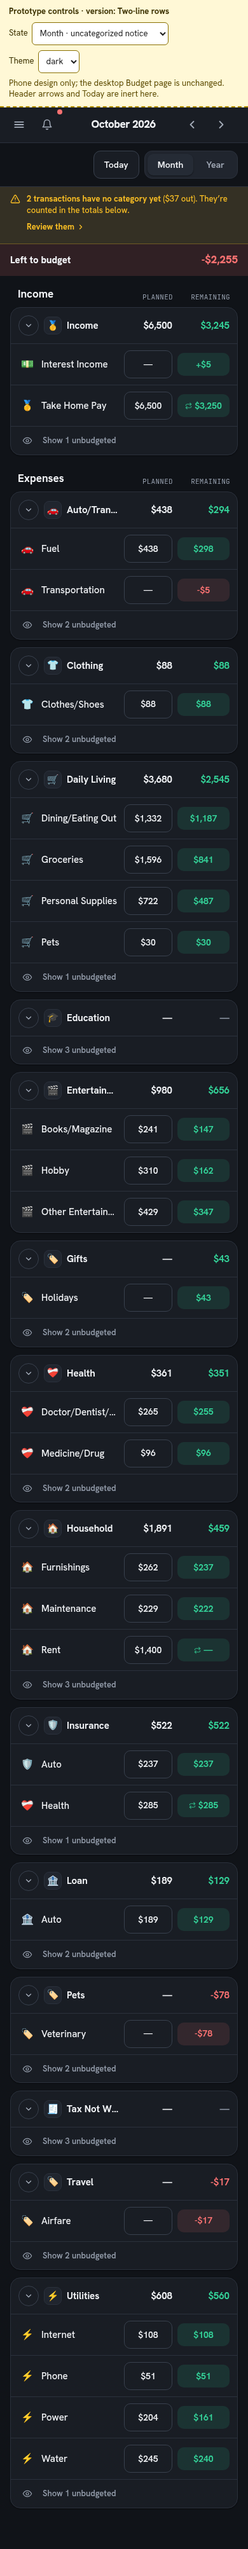
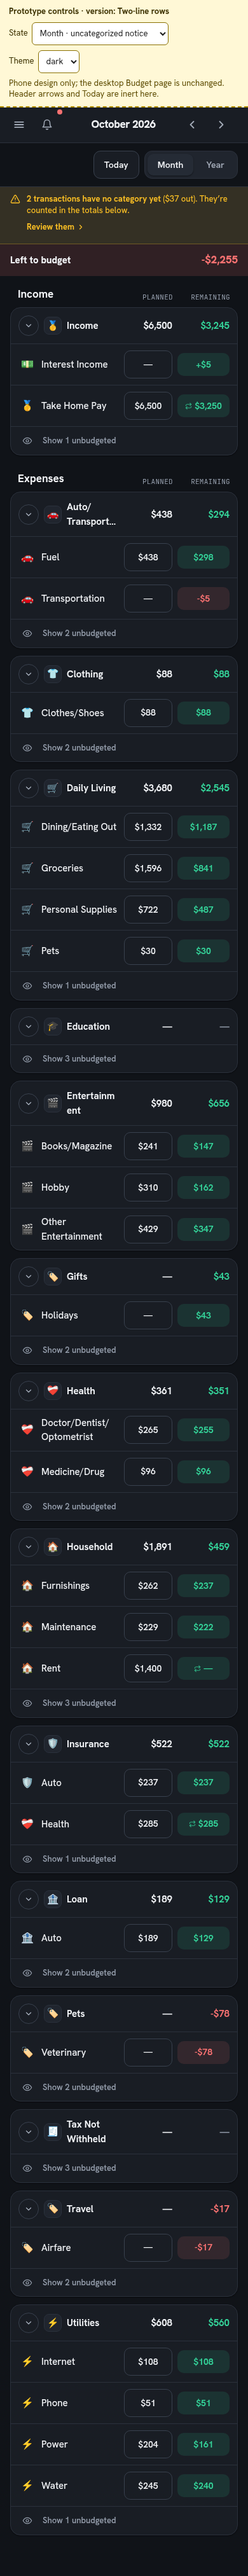
docs(design): wrap Budget names as the base does; record review fix (#309)

diff --git a/design/309-budget-year-cards/index.html b/design/309-budget-year-cards/index.html
@@ -2,20 +2,20 @@
 <html lang="en"><head><meta http-equiv="Content-Security-Policy" content="default-src 'none'; script-src 'unsafe-inline'; style-src 'unsafe-inline'; img-src data:; font-src data:; form-action 'none'; base-uri 'none'">
     <meta charset="UTF-8">
     <meta name="viewport" content="width=device-width, initial-scale=1.0, viewport-fit=cover">
-    
-    
-    
-    
-    
-    
+
+
+
+
+
+
     <meta name="theme-color" content="#ffffff" media="(prefers-color-scheme: light)">
     <meta name="theme-color" content="#191d24" media="(prefers-color-scheme: dark)">
     <title>Ledger — Personal Finance</title>
-    
-    
-    
-    
-    
+
+
+
+
+
   <style>/* cyrillic-ext */
 @font-face {
   font-family: 'Hanken Grotesk';
@@ -375,7 +375,7 @@
 </style></head>
   <body>
     <div id="root"><div class="flex app-shell-height bg-bg font-sans"><div class="shrink-0 desktop-only" style="width: 236px; transition: width 200ms;"></div><aside class="fixed left-0 top-0 h-full z-40 bg-surface border-r border-line flex flex-col overflow-hidden desktop-only" style="width: 236px; transition: width 200ms;"><div class="relative shrink-0" style="padding: 20px 0px 8px 18px;"><span class="relative inline-block"><svg width="28" height="28" viewBox="0 0 100 100" class="shrink-0 block" role="img" aria-label="Ledger"><defs><linearGradient id="ledger-mark-_r_0_" x1="0" y1="0" x2="1" y2="1"><stop offset="0" stop-color="#5b93ff"></stop><stop offset="1" stop-color="#2c72e6"></stop></linearGradient></defs><rect x="2" y="2" width="96" height="96" rx="26" fill="url(#ledger-mark-_r_0_)"></rect><g fill="#fff"><rect x="29" y="26" width="12" height="48" rx="6"></rect><rect x="29" y="62" width="42" height="12" rx="6"></rect><rect x="49" y="26" width="30" height="10" rx="5" opacity=".95"></rect><rect x="49" y="44" width="21" height="10" rx="5" opacity=".72"></rect></g></svg><span class="absolute -top-1 -right-1 w-2 h-2 rounded-full bg-negative" style="opacity: 0; pointer-events: none; transition: opacity 150ms;"></span></span><div class="absolute flex items-center gap-1" style="left: 84px; top: 18px; opacity: 1; pointer-events: auto; transition: opacity 150ms;"><button class="w-8 h-8 rounded-lg flex items-center justify-center bg-transparent border-none text-content-3 hover:text-content hover:bg-surface-2 cursor-pointer transition-colors" title="Dark mode"><svg width="18" height="18" viewBox="0 0 24 24" fill="none" stroke="currentColor" stroke-width="2" stroke-linecap="round" stroke-linejoin="round"><path d="M21 12.79A9 9 0 1 1 11.21 3 7 7 0 0 0 21 12.79z"></path></svg></button><button class="w-8 h-8 rounded-lg flex items-center justify-center bg-transparent border-none text-content-3 hover:text-content hover:bg-surface-2 cursor-pointer transition-colors" title="Settings"><svg width="18" height="18" viewBox="0 0 24 24" fill="none" stroke="currentColor" stroke-width="2" stroke-linecap="round" stroke-linejoin="round"><circle cx="12" cy="12" r="3"></circle><path d="M19.4 15a1.65 1.65 0 0 0 .33 1.82l.06.06a2 2 0 0 1 0 2.83 2 2 0 0 1-2.83 0l-.06-.06a1.65 1.65 0 0 0-1.82-.33 1.65 1.65 0 0 0-1 1.51V21a2 2 0 0 1-2 2 2 2 0 0 1-2-2v-.09A1.65 1.65 0 0 0 9 19.4a1.65 1.65 0 0 0-1.82.33l-.06.06a2 2 0 0 1-2.83 0 2 2 0 0 1 0-2.83l.06-.06A1.65 1.65 0 0 0 4.68 15a1.65 1.65 0 0 0-1.51-1H3a2 2 0 0 1-2-2 2 2 0 0 1 2-2h.09A1.65 1.65 0 0 0 4.6 9a1.65 1.65 0 0 0-.33-1.82l-.06-.06a2 2 0 0 1 0-2.83 2 2 0 0 1 2.83 0l.06.06A1.65 1.65 0 0 0 9 4.68a1.65 1.65 0 0 0 1-1.51V3a2 2 0 0 1 2-2 2 2 0 0 1 2 2v.09a1.65 1.65 0 0 0 1 1.51 1.65 1.65 0 0 0 1.82-.33l.06-.06a2 2 0 0 1 2.83 0 2 2 0 0 1 0 2.83l-.06.06A1.65 1.65 0 0 0 19.4 9a1.65 1.65 0 0 0 1.51 1H21a2 2 0 0 1 2 2 2 2 0 0 1-2 2h-.09a1.65 1.65 0 0 0-1.51 1z"></path></svg></button><button class="relative w-8 h-8 rounded-lg flex items-center justify-center bg-transparent border-none text-content-3 hover:text-content hover:bg-surface-2 cursor-pointer transition-colors" title="Notifications" aria-haspopup="dialog" aria-expanded="false"><svg width="18" height="18" viewBox="0 0 24 24" fill="none" stroke="currentColor" stroke-width="2" stroke-linecap="round" stroke-linejoin="round"><path d="M18 8A6 6 0 0 0 6 8c0 7-3 9-3 9h18s-3-2-3-9"></path><path d="M13.73 21a2 2 0 0 1-3.46 0"></path></svg><span class="absolute -top-0.5 -right-0.5 w-2 h-2 rounded-full bg-negative"></span></button><button class="w-8 h-8 rounded-lg flex items-center justify-center bg-transparent border-none text-content-3 hover:text-content hover:bg-surface-2 cursor-pointer transition-colors" title="Collapse sidebar"><svg width="16" height="16" viewBox="0 0 24 24" fill="none" stroke="currentColor" stroke-width="2" stroke-linecap="round" stroke-linejoin="round"><polyline points="15 18 9 12 15 6"></polyline><line x1="4" y1="4" x2="4" y2="20"></line></svg></button></div></div><nav class="flex-1 min-h-0 flex flex-col gap-0.5" style="padding: 12px 10px;"><a class="flex items-center gap-2.5 rounded-[11px] text-sm no-underline transition-colors text-content-2 font-medium hover:bg-surface-2 hover:text-content" data-discover="true" style="padding: 0px 13px; height: 40px;"><span class="shrink-0 flex relative"><svg width="18" height="18" viewBox="0 0 24 24" fill="none" stroke="currentColor" stroke-width="2" stroke-linecap="round" stroke-linejoin="round"><rect x="3" y="3" width="7" height="7"></rect><rect x="14" y="3" width="7" height="7"></rect><rect x="3" y="14" width="7" height="7"></rect><rect x="14" y="14" width="7" height="7"></rect></svg></span><span class="flex-1 flex items-center gap-2.5 whitespace-nowrap" style="opacity: 1; transition: opacity 150ms;">Dashboard</span></a><a class="flex items-center gap-2.5 rounded-[11px] text-sm no-underline transition-colors text-content-2 font-medium hover:bg-surface-2 hover:text-content" data-discover="true" style="padding: 0px 13px; height: 40px;"><span class="shrink-0 flex relative"><svg width="18" height="18" viewBox="0 0 24 24" fill="none" stroke="currentColor" stroke-width="2" stroke-linecap="round" stroke-linejoin="round"><path d="M21 12V7H5a2 2 0 0 1 0-4h14v4"></path><path d="M3 5v14a2 2 0 0 0 2 2h16v-5"></path><path d="M18 12a2 2 0 0 0 0 4h4v-4h-4Z"></path></svg></span><span class="flex-1 flex items-center gap-2.5 whitespace-nowrap" style="opacity: 1; transition: opacity 150ms;">Accounts</span></a><a class="flex items-center gap-2.5 rounded-[11px] text-sm no-underline transition-colors text-content-2 font-medium hover:bg-surface-2 hover:text-content" data-discover="true" style="padding: 0px 13px; height: 40px;"><span class="shrink-0 flex relative"><svg width="18" height="18" viewBox="0 0 24 24" fill="none" stroke="currentColor" stroke-width="2" stroke-linecap="round" stroke-linejoin="round"><line x1="8" y1="6" x2="21" y2="6"></line><line x1="8" y1="12" x2="21" y2="12"></line><line x1="8" y1="18" x2="21" y2="18"></line><line x1="3" y1="6" x2="3.01" y2="6"></line><line x1="3" y1="12" x2="3.01" y2="12"></line><line x1="3" y1="18" x2="3.01" y2="18"></line></svg></span><span class="flex-1 flex items-center gap-2.5 whitespace-nowrap" style="opacity: 1; transition: opacity 150ms;">Transactions</span></a><a class="flex items-center gap-2.5 rounded-[11px] text-sm no-underline transition-colors text-content-2 font-medium hover:bg-surface-2 hover:text-content" data-discover="true" style="padding: 0px 13px; height: 40px;"><span class="shrink-0 flex relative"><svg width="18" height="18" viewBox="0 0 24 24" fill="none" stroke="currentColor" stroke-width="2" stroke-linecap="round" stroke-linejoin="round"><path d="M21 15v4a2 2 0 0 1-2 2H5a2 2 0 0 1-2-2v-4"></path><polyline points="7 10 12 15 17 10"></polyline><line x1="12" y1="15" x2="12" y2="3"></line></svg></span><span class="flex-1 flex items-center gap-2.5 whitespace-nowrap" style="opacity: 1; transition: opacity 150ms;">Import</span></a><a class="flex items-center gap-2.5 rounded-[11px] text-sm no-underline transition-colors text-content-2 font-medium hover:bg-surface-2 hover:text-content" data-discover="true" style="padding: 0px 13px; height: 40px;"><span class="shrink-0 flex relative"><svg width="18" height="18" viewBox="0 0 24 24" fill="none" stroke="currentColor" stroke-width="2" stroke-linecap="round" stroke-linejoin="round"><path d="M9 11l3 3L22 4"></path><path d="M21 12v7a2 2 0 0 1-2 2H5a2 2 0 0 1-2-2V5a2 2 0 0 1 2-2h11"></path></svg><span class="absolute -top-1 -right-1 w-2 h-2 rounded-full bg-primary" style="opacity: 0; transition: opacity 150ms;"></span></span><span class="flex-1 flex items-center gap-2.5 whitespace-nowrap" style="opacity: 1; transition: opacity 150ms;">Review<span class="ml-auto min-w-[20px] h-5 px-1.5 rounded-full bg-primary text-on-primary text-[11px] font-bold inline-flex items-center justify-center">45</span></span></a><a class="flex items-center gap-2.5 rounded-[11px] text-sm no-underline transition-colors text-content-2 font-medium hover:bg-surface-2 hover:text-content" data-discover="true" style="padding: 0px 13px; height: 40px;"><span class="shrink-0 flex relative"><svg width="18" height="18" viewBox="0 0 24 24" fill="none" stroke="currentColor" stroke-width="2" stroke-linecap="round" stroke-linejoin="round"><line x1="18" y1="20" x2="18" y2="10"></line><line x1="12" y1="20" x2="12" y2="4"></line><line x1="6" y1="20" x2="6" y2="14"></line></svg></span><span class="flex-1 flex items-center gap-2.5 whitespace-nowrap" style="opacity: 1; transition: opacity 150ms;">Reports</span></a><a aria-current="page" class="flex items-center gap-2.5 rounded-[11px] text-sm no-underline transition-colors bg-primary/15 text-primary font-semibold active" data-discover="true" style="padding: 0px 13px; height: 40px;"><span class="shrink-0 flex relative"><svg width="18" height="18" viewBox="0 0 24 24" fill="none" stroke="currentColor" stroke-width="2" stroke-linecap="round" stroke-linejoin="round"><rect x="2" y="5" width="20" height="14" rx="2"></rect><line x1="2" y1="10" x2="22" y2="10"></line></svg></span><span class="flex-1 flex items-center gap-2.5 whitespace-nowrap" style="opacity: 1; transition: opacity 150ms;">Budget</span></a><a class="flex items-center gap-2.5 rounded-[11px] text-sm no-underline transition-colors text-content-2 font-medium hover:bg-surface-2 hover:text-content" data-discover="true" style="padding: 0px 13px; height: 40px;"><span class="shrink-0 flex relative"><svg width="18" height="18" viewBox="0 0 24 24" fill="none" stroke="currentColor" stroke-width="2" stroke-linecap="round" stroke-linejoin="round"><polyline points="17 1 21 5 17 9"></polyline><path d="M3 11V9a4 4 0 0 1 4-4h14"></path><polyline points="7 23 3 19 7 15"></polyline><path d="M21 13v2a4 4 0 0 1-4 4H3"></path></svg></span><span class="flex-1 flex items-center gap-2.5 whitespace-nowrap" style="opacity: 1; transition: opacity 150ms;">Recurring</span></a><a class="flex items-center gap-2.5 rounded-[11px] text-sm no-underline transition-colors text-content-2 font-medium hover:bg-surface-2 hover:text-content" data-discover="true" style="padding: 0px 13px; height: 40px;"><span class="shrink-0 flex relative"><svg width="18" height="18" viewBox="0 0 24 24" fill="none" stroke="currentColor" stroke-width="2" stroke-linecap="round" stroke-linejoin="round"><polyline points="23 6 13.5 15.5 8.5 10.5 1 18"></polyline><polyline points="17 6 23 6 23 12"></polyline></svg></span><span class="flex-1 flex items-center gap-2.5 whitespace-nowrap" style="opacity: 1; transition: opacity 150ms;">Investments</span></a></nav><div class="shrink-0" style="padding: 0px 8px 12px;"><button class="flex items-center w-full rounded-[11px] cursor-pointer bg-transparent border-none hover:bg-surface-2 transition-colors" aria-haspopup="menu" aria-expanded="false" style="padding: 8px; gap: 10px;"><div class="w-8 h-8 rounded-full flex items-center justify-center shrink-0 font-bold text-[13px]" style="background: color-mix(in srgb, var(--primary) 16%, transparent); color: var(--primary);">J</div><span class="flex-1 min-w-0 text-left text-sm font-semibold text-content leading-tight whitespace-nowrap overflow-hidden text-ellipsis" style="opacity: 1; transition: opacity 150ms;">John</span><svg class="shrink-0 text-content-3" width="16" height="16" viewBox="0 0 24 24" fill="none" stroke="currentColor" stroke-width="2" stroke-linecap="round" stroke-linejoin="round" style="opacity: 1; transition: opacity 150ms;"><polyline points="18 15 12 9 6 15"></polyline></svg></button></div></aside><div class="flex-1 overflow-y-auto flex flex-col min-h-0"><div class="mobile-only sticky top-0 z-40 shrink-0 flex items-center gap-1 bg-surface border-b border-line px-2 h-14"><div id="mobile-bar-back" class="peer/back flex items-center shrink-0 empty:hidden"></div><div class="flex items-center shrink-0 peer-[:not(:empty)]/back:hidden"><button type="button" aria-label="Open menu" class="relative w-11 h-11 rounded-[10px] flex items-center justify-center text-content-2 active:bg-surface-2"><svg width="20" height="20" viewBox="0 0 24 24" fill="none" stroke="currentColor" stroke-width="2.2" stroke-linecap="round"><path d="M4 7h16M4 12h16M4 17h16"></path></svg></button><button class="relative relative w-11 h-11 rounded-[10px] flex items-center justify-center text-content-2 active:bg-surface-2" title="Notifications" aria-haspopup="dialog" aria-expanded="false"><svg width="18" height="18" viewBox="0 0 24 24" fill="none" stroke="currentColor" stroke-width="2" stroke-linecap="round" stroke-linejoin="round"><path d="M18 8A6 6 0 0 0 6 8c0 7-3 9-3 9h18s-3-2-3-9"></path><path d="M13.73 21a2 2 0 0 1-3.46 0"></path></svg><span class="absolute -top-0.5 -right-0.5 w-2 h-2 rounded-full bg-negative"></span></button></div><div class="flex-1 min-w-0 flex items-center justify-center px-1"><div id="mobile-bar-title" class="peer/title min-w-0 max-w-full text-center empty:hidden"><span class="block truncate text-[17px] font-extrabold tracking-tight text-content">October 2026</span></div><div class="flex items-center gap-2 peer-[:not(:empty)]/title:hidden"><svg width="22" height="22" viewBox="0 0 100 100" role="img" aria-label="Ledger"><defs><linearGradient id="ledger-mark-_r_1_" x1="0" y1="0" x2="1" y2="1"><stop offset="0" stop-color="#5b93ff"></stop><stop offset="1" stop-color="#2c72e6"></stop></linearGradient></defs><rect x="2" y="2" width="96" height="96" rx="26" fill="url(#ledger-mark-_r_1_)"></rect><g fill="#fff"><rect x="29" y="26" width="12" height="48" rx="6"></rect><rect x="29" y="62" width="42" height="12" rx="6"></rect><rect x="49" y="26" width="30" height="10" rx="5" opacity=".95"></rect><rect x="49" y="44" width="21" height="10" rx="5" opacity=".72"></rect></g></svg><span class="text-[17px] font-extrabold tracking-tight text-content">Ledger</span></div></div><div id="mobile-bar-actions" class="flex items-center justify-end gap-0.5 shrink-0 min-w-[88px] [&amp;&gt;button]:!h-11 [&amp;&gt;button]:!w-11 [&amp;&gt;button]:!min-w-0 [&amp;&gt;button]:!px-0 [&amp;&gt;button]:!border-0 [&amp;&gt;button]:!bg-transparent [&amp;&gt;button]:!text-content-2 [&amp;&gt;button]:!shadow-none [&amp;&gt;button]:!rounded-[10px] [&amp;&gt;button]:justify-center [&amp;&gt;*&gt;button]:!h-11 [&amp;&gt;*&gt;button]:!w-11 [&amp;&gt;*&gt;button]:!min-w-0 [&amp;&gt;*&gt;button]:!px-0 [&amp;&gt;*&gt;button]:!border-0 [&amp;&gt;*&gt;button]:!bg-transparent [&amp;&gt;*&gt;button]:!text-content-2 [&amp;&gt;*&gt;button]:!shadow-none [&amp;&gt;*&gt;button]:!rounded-[10px] [&amp;&gt;*&gt;button]:justify-center [&amp;&gt;a]:!h-11 [&amp;&gt;a]:!w-11 [&amp;&gt;a]:!px-0 [&amp;&gt;a]:!border-0 [&amp;&gt;a]:!bg-transparent [&amp;&gt;a]:!text-content-2 [&amp;&gt;a]:justify-center"><button aria-label="Previous" class="tap-area"><svg width="20" height="20" viewBox="0 0 24 24" fill="none" stroke="currentColor" stroke-width="2.2" stroke-linecap="round" stroke-linejoin="round"><path d="m15 18-6-6 6-6"></path></svg></button><button aria-label="Next" class="tap-area"><svg width="20" height="20" viewBox="0 0 24 24" fill="none" stroke="currentColor" stroke-width="2.2" stroke-linecap="round" stroke-linejoin="round"><path d="m9 18 6-6-6-6"></path></svg></button></div></div><div class="flex-1 py-7 px-9 mobile-main-content"><div><div class="sticky top-14 md:top-0 z-20 -mt-4 md:-mt-7 -mx-4 md:-mx-8 px-4 md:px-8 py-3 md:py-4 mb-5 md:mb-6 bg-bg border-b border-line flex items-center justify-between gap-3 md:gap-4 "><div class="flex items-center gap-2 md:gap-2.5 flex-wrap w-full md:w-auto shrink-0 justify-end md:justify-end [&amp;&gt;*]:shrink-0"><button class="tap-grow h-10 px-4 rounded-[11px] bg-surface border border-line-strong text-content font-semibold text-sm hover:bg-surface-2">Today</button><div class="inline-flex items-center max-md:items-stretch max-md:min-h-11 gap-1 bg-surface-2 border border-line rounded-[12px] p-1 "><button type="button" aria-pressed="true" class="relative max-md:inline-flex max-md:items-center max-md:justify-center max-md:after:content-[''] max-md:after:absolute max-md:after:inset-x-0 max-md:after:-inset-y-[5px] px-4 py-1.5 rounded-[9px] text-sm font-semibold transition-colors bg-elevated shadow-sm text-content">Month</button><button type="button" aria-pressed="false" class="relative max-md:inline-flex max-md:items-center max-md:justify-center max-md:after:content-[''] max-md:after:absolute max-md:after:inset-x-0 max-md:after:-inset-y-[5px] px-4 py-1.5 rounded-[9px] text-sm font-semibold transition-colors text-content-2 hover:text-content">Year</button></div></div></div><div id="proto-page"></div></div></div></div></div><div class="fixed top-5 right-5 z-[9999] flex flex-col-reverse gap-2 w-[360px] max-w-[calc(100vw-40px)]" aria-live="polite"></div></div>
-  
+
 
 <script>window.__PROTO_VERSION__="twoline"</script><script>(function () {
   // Prototype only: sample data and local behaviour for design #309.
@@ -440,6 +440,8 @@
   // ---- helpers
   function money(v) { if (!v) return '—'; var s = '$' + Math.abs(Math.round(v)).toLocaleString('en-US'); return v < 0 ? '-' + s : s; }
   function sum(a) { return a.reduce(function (x, y) { return x + y; }, 0); }
+  // Names wrap to at most two lines, breaking after "/" (current base, #314: wrapName + line-clamp-2).
+  function wrapName(t, extra) { return '<span class="block min-w-0' + (extra || '') + '" style="display:-webkit-box;-webkit-line-clamp:2;-webkit-box-orient:vertical;overflow:hidden;overflow-wrap:break-word">' + esc(t).replace(/\//g, '/<wbr>') + '</span>'; }
   function esc(t) { return String(t).replace(/&/g, '&amp;').replace(/</g, '&lt;'); }
   var SVG_REC = '<svg width="11" height="11" viewBox="0 0 24 24" fill="none" stroke="currentColor" stroke-width="2.4" stroke-linecap="round" stroke-linejoin="round" class="opacity-80"><path d="M17 2l4 4-4 4"></path><path d="M3 11v-1a4 4 0 0 1 4-4h14"></path><path d="M7 22l-4-4 4-4"></path><path d="M21 13v1a4 4 0 0 1-4 4H3"></path></svg>';
   var SVG_EYE = '<svg width="16" height="16" viewBox="0 0 24 24" fill="none" stroke="currentColor" stroke-width="1.8" stroke-linecap="round" stroke-linejoin="round"><path d="M2 12s3.5-7 10-7 10 7 10 7-3.5 7-10 7-10-7-10-7z"></path><circle cx="12" cy="12" r="3"></circle></svg>';
@@ -531,12 +533,12 @@
     function yearLine(v, bold) { return '<span class="block text-[12px] ' + (bold ? 'font-semibold ' : 'font-normal ') + 'text-content-3 tabular-nums">' + (v ? money(v) + ' in ' + yearLabel : 'Nothing in ' + yearLabel) + '</span>'; }
     var h = '<div class="bg-surface border border-line rounded-card shadow-sm overflow-hidden"' + stripe + '><div class="flex items-center gap-2 px-3 py-3">' +
       '<button type="button" data-toggle="' + esc(gk) + '" aria-label="' + (collapsed ? 'Expand ' : 'Collapse ') + esc(g.n) + '" aria-expanded="' + !collapsed + '" class="tap-area shrink-0 w-8 h-8 rounded-full border border-line-strong flex items-center justify-center text-content-2 active:bg-surface-2">' + chevron(collapsed) + '</button>' +
-      '<button type="button" class="tap-area flex-1 min-w-0 flex items-center gap-2 text-left font-bold text-[15px]"><span aria-hidden="true" class="shrink-0 rounded-[8px] bg-surface-2 border border-line flex items-center justify-center leading-none w-7 h-7 text-[15px]">' + g.e + '</span>' + (two ? '<span class="min-w-0"><span class="block truncate">' + esc(g.n) + '</span>' + yearLine(c2, true) + '</span>' : '<span class="truncate">' + esc(g.n) + '</span>') + '</button>' +
+      '<button type="button" class="tap-area flex-1 min-w-0 flex items-center gap-2 text-left font-bold text-[15px]"><span aria-hidden="true" class="shrink-0 rounded-[8px] bg-surface-2 border border-line flex items-center justify-center leading-none w-7 h-7 text-[15px]">' + g.e + '</span>' + (two ? '<span class="min-w-0">' + wrapName(g.n) + yearLine(c2, true) + '</span>' : wrapName(g.n)) + '</button>' +
       '<span class="w-[76px] text-right font-bold text-[15px] tabular-nums">' + money(c1) + '</span>' + (two ? '' : '<span class="tabular-nums ' + c2cls + ' w-[82px] text-right font-bold text-[15px]">' + money(c2) + '</span>') + '</div>';
     if (!collapsed) {
       rows.forEach(function (s) {
         h += '<div class="flex items-center gap-2 px-3 py-2.5 border-t border-line"><span class="w-7 shrink-0 text-center text-[16px] leading-none">' + s.e + '</span>' +
-          '<button type="button" class="tap-area flex-1 min-w-0 text-left text-[15px] font-medium"><span class="block truncate">' + esc(s.n) + '</span>' + (two ? yearLine(sum(s.plan || [])) : '') + '</button>';
+          '<button type="button" class="tap-area flex-1 min-w-0 text-left text-[15px] font-medium">' + wrapName(s.n) + (two ? yearLine(sum(s.plan || [])) : '') + '</button>';
         if (year) {
           var v = s.plan[m], label = s.n + ', ' + MONTH_FULL[m] + ' 2026: ' + (v ? money(v) : 'nothing planned');
           h += locked

diff --git a/design/309-budget-year-cards/decisions.md b/design/309-budget-year-cards/decisions.md
@@ -43,6 +43,7 @@ Complete evidence for every rejected version (8 states × light/dark × 390/1440
 - No Open Design comments were left; all feedback came in herdr (recorded above).
 - After approval, one consistency fix: the year-loading skeleton still showed two number columns; it now shows a name bar, a second-line bar and one month bar, matching the approved layout. Only the four year-loading screenshots changed.
 - Prototype-only fix: switching state now resets expanded/collapsed groups so they don't carry over. No screenshots changed.
+- Pre-PR review fix (GPT-5.6 Terra, blocking #1): names in both views now wrap to at most two lines, breaking after "/", as the current base does (#314), instead of truncating. Year names already fit at 390, so only the eight Month screenshots changed. Trailing whitespace from the capture was stripped (nit). Mid-word breaks such as "Entertainm/ent" match the base's current behaviour and are left to a follow-up.
 
 ## Experiment
 None.
@@ -56,5 +57,5 @@ The merged folder/revision is the feature authority; DESIGN.md and the live site
 - The year second line is a new use of existing parts (12px `--text-3` text under a name); Robert's merge grants it.
 - Base changes since the capture (6af785f), reconciled 2026-10-12 against `origin/feature/platform-retheme` @ 9d79fa3:
   - #311 (gap between the uncategorized notice and the band on phones) is superseded on phones by notice a: the notice strip joins the top of the band with no gap, as Robert chose (#5).
-  - #314 wraps phone Budget names to at most two lines, breaking after "/" (`wrapName`, `line-clamp-2`). Keep that in both views; in Year the year line sits under the (possibly wrapped) name. The design's truncated names in Month reflect the older capture, not a change.
+  - #314 wraps phone Budget names to at most two lines, breaking after "/" (`wrapName`, `line-clamp-2`). Keep that in both views; in Year the year line sits under the (possibly wrapped) name. `index.html` shows this wrapping.
   - #312 sets phone Budget amounts to 15px. Keep that; the design's 14px month buttons reflect the older capture. The year line stays 12px.

diff --git a/backlog.md b/backlog.md
@@ -34,3 +34,4 @@
 - The shared `Calendar` month arrows and month/year selects are 40px, under the 44px phone tap minimum, wherever it opens on phones (Add/Edit transaction, transaction detail, bulk Edit sheet); found in #261 review.
 - Liabilities group change figure on Accounts still shows red, and other places that print a liability balance (Dashboard, reports) weren't checked for the amount-owed display (found in #274).
 - Reports' own Sort menu (four choices) and Review's small Date menu are still pop-ups on phones; give them bottom sheets like Transactions Sort and the shared Filters/Date pickers (found in #288; they were not in the approved design).
+- Phone Budget names that are one long word (e.g. "Entertainment" in a group header) break mid-word at 390px under the two-line wrap from #314; prefer wrapping only at spaces and "/" (found in #309).
